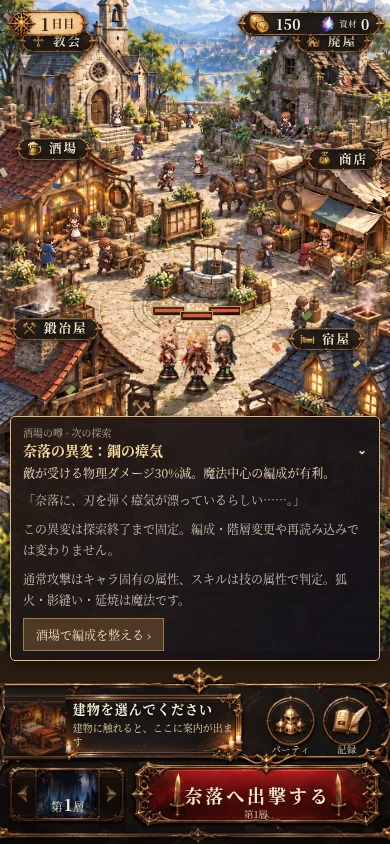
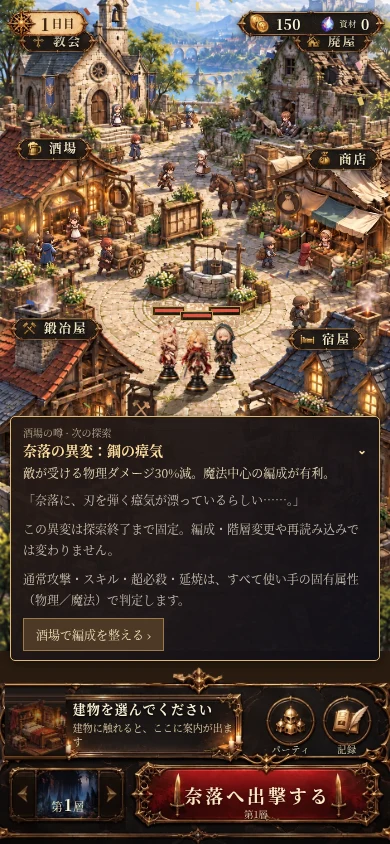
異変の物理魔法判定をキャラ属性へ統一

diff --git a/dev/naraku_src.html b/dev/naraku_src.html
@@ -2807,14 +2807,14 @@ const OMENS={
 };
 const omenKey=k=>Object.prototype.hasOwnProperty.call(OMENS,k)?k:'none';
 function rollOmen(seed,runs,previous){const keys=Object.keys(OMENS).filter(k=>k!==previous);return keys[hash32(seed^Math.imul(runs+1,0x9e3779b1)^0x4f4d454e)%keys.length]}
-const skillTag=c=>c.damageTag||(['fox_fire','fox_bind'].includes(c.id)?'mag':CHAR_TAG[c.owner]);
-function omenDamage(dmg,who,tag){
+function omenDamage(dmg,who){
+  const tag=CHAR_TAG[who];
   const key=B.anomaly;if((key==='steel'&&tag==='phys')||(key==='seal'&&tag==='mag'))dmg*=.7;
   if(key==='whispers'&&who){const a=B.allies.find(a=>a.d.id===who);if(a)dmg*=1+clamp(a.m.madness||0,0,99)*.005}
   return dmg;
 }
 function omenHTML(key,label='次の探索'){
-  const o=OMENS[omenKey(key)];return '<details class="omen-notice"><summary><small>酒場の噂 · '+label+'</small><b>奈落の異変：'+o.name+'</b><span>'+o.effect+'</span></summary><p>「'+o.rumor+'」</p><p>この異変は探索終了まで固定。編成・階層変更や再読み込みでは変わりません。</p><p>通常攻撃はキャラ固有の属性、スキルは技の属性で判定。狐火・影縫い・延焼は魔法です。</p><button data-go="party">酒場で編成を整える ›</button></details>';
+  const o=OMENS[omenKey(key)];return '<details class="omen-notice"><summary><small>酒場の噂 · '+label+'</small><b>奈落の異変：'+o.name+'</b><span>'+o.effect+'</span></summary><p>「'+o.rumor+'」</p><p>この異変は探索終了まで固定。編成・階層変更や再読み込みでは変わりません。</p><p>通常攻撃・スキル・超必殺・延焼は、すべて使い手の固有属性（物理／魔法）で判定します。</p><button data-go="party">酒場で編成を整える ›</button></details>';
 }
 const SAVE_KEY='naraku_save_v1';
 function newSave(){
@@ -3133,9 +3133,9 @@ function allyHit(a,tg,rep,singleOnly=false){
   }
 }
 // who=与えた味方のid / kind='atk'（通常攻撃・延焼）か 'skill'。集計は実際に削った体力ぶん（倒しすぎは数えない）
-function hurt(e,dmg,col,crit,quiet,who,kind,tag=CHAR_TAG[who]){
+function hurt(e,dmg,col,crit,quiet,who,kind){
   if(e.dead)return;
-  dmg=omenDamage(dmg,who,tag);
+  dmg=omenDamage(dmg,who);
   const real=Math.min(dmg,Math.max(0,e.hp));if(who&&B.stat[who])B.stat[who][kind]+=real;else B.statX+=real;
   e.hp-=dmg;e.flash=0.12;
   if(JC.on&&!quiet){e.kbT=0.13;if(crit){e.flash=0.18;jcStop(0.035)}}
@@ -3185,7 +3185,7 @@ function updEnemies(dt){
     if(e.knT>0)e.knT-=dt;
     if(e.burnT>0){ // 延焼：0.5秒ごとにまとめて焼く
       e.burnT-=dt;e.burnTick-=dt;
-      if(e.burnTick<=0){e.burnTick+=0.5;hurt(e,e.burnDps*0.5,'#ff8a3a',false,true,e.burnBy,'atk','mag');if(e.dead)continue}
+      if(e.burnTick<=0){e.burnTick+=0.5;hurt(e,e.burnDps*0.5,'#ff8a3a',false,true,e.burnBy,'atk');if(e.dead)continue}
       if(e.burnT<=0)e.burnDps=0;
     }
     if(e.frzT>0){e.frzT-=dt;continue}
@@ -3442,7 +3442,7 @@ function impact(c,x,y,k,shadow=false){
     if(c.slow)e.slowT=Math.max(e.slowT,c.slow);
     if(c.freeze)e.frzT=Math.max(e.frzT,c.freeze*(e.elite?0.5:1));
     if(c.knock)e.y-=c.knock*k*(e.elite?0.3:1);
-    hurt(e,dmg*((c.boss&&(e.elite||e.d.boss))?c.boss:1),c.pal[1],false,false,c.owner,'skill',skillTag(c));
+    hurt(e,dmg*((c.boss&&(e.elite||e.d.boss))?c.boss:1),c.pal[1],false,false,c.owner,'skill');
   }
   if(c.shape!=='full'&&c.fx!=='full'&&(c.dmg||0)>0)jcImpact(x,y,B.kills-k0);
   if(c.healFlat)for(const a of B.allies)if(a.alive){a.hp=Math.min(a.max,a.hp+c.healFlat*k);fxSpark(a.x,a.y-64,'#bff0c0',6)}
@@ -3466,7 +3466,7 @@ function castInstant(c,a){
     for(const e of B.enemies){
       if(e.dead||e.y<top)continue;
       e.y-=c.push*(e.d.boss?0.1:e.elite?0.3:1);e.knT=Math.max(e.knT,0.5);
-      hurt(e,dmg*((c.boss&&(e.elite||e.d.boss))?c.boss:1),c.pal[1],false,false,c.owner,'skill',skillTag(c));
+      hurt(e,dmg*((c.boss&&(e.elite||e.d.boss))?c.boss:1),c.pal[1],false,false,c.owner,'skill');
     }
     fxRow(B.lineY-c.band*0.5,c.band*0.5,c.pal);
     fxTex({n:'slash_a',col:c.pal[1],x:W/2,y:B.lineY-c.band*0.5,w:W*1.3,rot:1.0,sq:0.6,life:0.45,s0:0.85,s1:1.1,fi:0.05,fo:1.4});
@@ -3892,7 +3892,7 @@ function updZones(dt){
     const z=B.zones[i];z.t-=dt;z.tick-=dt;
     if(z.tick<=0){z.tick+=0.5;
       for(const e of B.enemies){if(e.dead||e.y>B.lineY+8||Math.abs(e.x-z.x)>z.hw+e.d.r*e.sc)continue;
-        e.slowT=Math.max(e.slowT,0.6);hurt(e,z.dps*0.5,z.c.pal[1],false,true,z.c.owner,'skill',skillTag(z.c))}
+        e.slowT=Math.max(e.slowT,0.6);hurt(e,z.dps*0.5,z.c.pal[1],false,true,z.c.owner,'skill')}
       if(z.c.id==='sw_rift'&&!z.c.ult&&!RIFT_VFX.enabled&&riftKOn()){const K=VFXK.sword;for(let k=0;k<3;k++)dustBurst('streak',z.x+(Math.random()-0.5)*z.hw*1.2,B.lineY*(0.1+Math.random()*0.85),1,{ang:-Math.PI/2,spread:0.5,v0:40,v1:110,l0:0.3,l1:0.4,p:{drag:1,w:1.2,len:6,c0:K.streak[0],c1:K.streak[1]}})}
       else if(!(z.c.ult==='sword'&&ultSeqOn('sword'))&&!(z.c.id==='sw_rift'&&!z.c.ult&&RIFT_VFX.enabled&&vtex('rift_floor')&&vtex('rift_air')))for(let k=0;k<6;k++)addPart({x:z.x+(Math.random()-0.5)*z.hw*1.4,y:Math.random()*B.lineY,vx:0,vy:-40-Math.random()*60,t:0,life:0.5+Math.random()*0.4,size:2+Math.random()*2,col:z.c.pal[1],drag:0.5,grav:0})}
     if(z.t<=0)B.zones.splice(i,1);
@@ -5947,7 +5947,7 @@ window.NARAKU={
   startRun(ids,seed,floor,anomaly='none'){SAVE_ON=false;S=newSave();S.omen=omenKey(anomaly);S.picks=ids.slice();if(floor){S.floorMax=Math.max(S.floorMax,floor);S.floor=floor}beginRun(seed)},
   // 街の操作と装備・セーブ
   town:{show:showTown,view:showView,pick:togglePick,hire:hireChar,equip:equipItem,unequip,enhance,breakItem,breakAll,inn:innStay,revive,buy:shopBuy,floor:setFloor,bank:bankLoot},
-  omens:{table:OMENS,roll:rollOmen,damage:omenDamage,hurt,skillTag,hitFrom,impact},
+  omens:{table:OMENS,roll:rollOmen,damage:omenDamage,hurt,hitFrom,impact},
   costume:{get:lanaOutfit,set:setLanaCostume,d:id=>charD(id),ultSeq:()=>ULT_SEQ.sword.n,col:()=>ULT_DEF.sword.col,holy:()=>lanaHolyOn},
   look:{set:setLook,get:id=>allyLook(id).key,frames:id=>allyLook(id).seq.length,list:id=>lookList(id).map(o=>o.key)},
   hub:{HUB,select:hubSelect,enter:hubEnter,tick:hubTick,get sel(){return HSEL},get on(){return!!HUBS}},

diff --git a/index.html b/index.html
@@ -2807,14 +2807,14 @@ const OMENS={
 };
 const omenKey=k=>Object.prototype.hasOwnProperty.call(OMENS,k)?k:'none';
 function rollOmen(seed,runs,previous){const keys=Object.keys(OMENS).filter(k=>k!==previous);return keys[hash32(seed^Math.imul(runs+1,0x9e3779b1)^0x4f4d454e)%keys.length]}
-const skillTag=c=>c.damageTag||(['fox_fire','fox_bind'].includes(c.id)?'mag':CHAR_TAG[c.owner]);
-function omenDamage(dmg,who,tag){
+function omenDamage(dmg,who){
+  const tag=CHAR_TAG[who];
   const key=B.anomaly;if((key==='steel'&&tag==='phys')||(key==='seal'&&tag==='mag'))dmg*=.7;
   if(key==='whispers'&&who){const a=B.allies.find(a=>a.d.id===who);if(a)dmg*=1+clamp(a.m.madness||0,0,99)*.005}
   return dmg;
 }
 function omenHTML(key,label='次の探索'){
-  const o=OMENS[omenKey(key)];return '<details class="omen-notice"><summary><small>酒場の噂 · '+label+'</small><b>奈落の異変：'+o.name+'</b><span>'+o.effect+'</span></summary><p>「'+o.rumor+'」</p><p>この異変は探索終了まで固定。編成・階層変更や再読み込みでは変わりません。</p><p>通常攻撃はキャラ固有の属性、スキルは技の属性で判定。狐火・影縫い・延焼は魔法です。</p><button data-go="party">酒場で編成を整える ›</button></details>';
+  const o=OMENS[omenKey(key)];return '<details class="omen-notice"><summary><small>酒場の噂 · '+label+'</small><b>奈落の異変：'+o.name+'</b><span>'+o.effect+'</span></summary><p>「'+o.rumor+'」</p><p>この異変は探索終了まで固定。編成・階層変更や再読み込みでは変わりません。</p><p>通常攻撃・スキル・超必殺・延焼は、すべて使い手の固有属性（物理／魔法）で判定します。</p><button data-go="party">酒場で編成を整える ›</button></details>';
 }
 const SAVE_KEY='naraku_save_v1';
 function newSave(){
@@ -3133,9 +3133,9 @@ function allyHit(a,tg,rep,singleOnly=false){
   }
 }
 // who=与えた味方のid / kind='atk'（通常攻撃・延焼）か 'skill'。集計は実際に削った体力ぶん（倒しすぎは数えない）
-function hurt(e,dmg,col,crit,quiet,who,kind,tag=CHAR_TAG[who]){
+function hurt(e,dmg,col,crit,quiet,who,kind){
   if(e.dead)return;
-  dmg=omenDamage(dmg,who,tag);
+  dmg=omenDamage(dmg,who);
   const real=Math.min(dmg,Math.max(0,e.hp));if(who&&B.stat[who])B.stat[who][kind]+=real;else B.statX+=real;
   e.hp-=dmg;e.flash=0.12;
   if(JC.on&&!quiet){e.kbT=0.13;if(crit){e.flash=0.18;jcStop(0.035)}}
@@ -3185,7 +3185,7 @@ function updEnemies(dt){
     if(e.knT>0)e.knT-=dt;
     if(e.burnT>0){ // 延焼：0.5秒ごとにまとめて焼く
       e.burnT-=dt;e.burnTick-=dt;
-      if(e.burnTick<=0){e.burnTick+=0.5;hurt(e,e.burnDps*0.5,'#ff8a3a',false,true,e.burnBy,'atk','mag');if(e.dead)continue}
+      if(e.burnTick<=0){e.burnTick+=0.5;hurt(e,e.burnDps*0.5,'#ff8a3a',false,true,e.burnBy,'atk');if(e.dead)continue}
       if(e.burnT<=0)e.burnDps=0;
     }
     if(e.frzT>0){e.frzT-=dt;continue}
@@ -3442,7 +3442,7 @@ function impact(c,x,y,k,shadow=false){
     if(c.slow)e.slowT=Math.max(e.slowT,c.slow);
     if(c.freeze)e.frzT=Math.max(e.frzT,c.freeze*(e.elite?0.5:1));
     if(c.knock)e.y-=c.knock*k*(e.elite?0.3:1);
-    hurt(e,dmg*((c.boss&&(e.elite||e.d.boss))?c.boss:1),c.pal[1],false,false,c.owner,'skill',skillTag(c));
+    hurt(e,dmg*((c.boss&&(e.elite||e.d.boss))?c.boss:1),c.pal[1],false,false,c.owner,'skill');
   }
   if(c.shape!=='full'&&c.fx!=='full'&&(c.dmg||0)>0)jcImpact(x,y,B.kills-k0);
   if(c.healFlat)for(const a of B.allies)if(a.alive){a.hp=Math.min(a.max,a.hp+c.healFlat*k);fxSpark(a.x,a.y-64,'#bff0c0',6)}
@@ -3466,7 +3466,7 @@ function castInstant(c,a){
     for(const e of B.enemies){
       if(e.dead||e.y<top)continue;
       e.y-=c.push*(e.d.boss?0.1:e.elite?0.3:1);e.knT=Math.max(e.knT,0.5);
-      hurt(e,dmg*((c.boss&&(e.elite||e.d.boss))?c.boss:1),c.pal[1],false,false,c.owner,'skill',skillTag(c));
+      hurt(e,dmg*((c.boss&&(e.elite||e.d.boss))?c.boss:1),c.pal[1],false,false,c.owner,'skill');
     }
     fxRow(B.lineY-c.band*0.5,c.band*0.5,c.pal);
     fxTex({n:'slash_a',col:c.pal[1],x:W/2,y:B.lineY-c.band*0.5,w:W*1.3,rot:1.0,sq:0.6,life:0.45,s0:0.85,s1:1.1,fi:0.05,fo:1.4});
@@ -3892,7 +3892,7 @@ function updZones(dt){
     const z=B.zones[i];z.t-=dt;z.tick-=dt;
     if(z.tick<=0){z.tick+=0.5;
       for(const e of B.enemies){if(e.dead||e.y>B.lineY+8||Math.abs(e.x-z.x)>z.hw+e.d.r*e.sc)continue;
-        e.slowT=Math.max(e.slowT,0.6);hurt(e,z.dps*0.5,z.c.pal[1],false,true,z.c.owner,'skill',skillTag(z.c))}
+        e.slowT=Math.max(e.slowT,0.6);hurt(e,z.dps*0.5,z.c.pal[1],false,true,z.c.owner,'skill')}
       if(z.c.id==='sw_rift'&&!z.c.ult&&!RIFT_VFX.enabled&&riftKOn()){const K=VFXK.sword;for(let k=0;k<3;k++)dustBurst('streak',z.x+(Math.random()-0.5)*z.hw*1.2,B.lineY*(0.1+Math.random()*0.85),1,{ang:-Math.PI/2,spread:0.5,v0:40,v1:110,l0:0.3,l1:0.4,p:{drag:1,w:1.2,len:6,c0:K.streak[0],c1:K.streak[1]}})}
       else if(!(z.c.ult==='sword'&&ultSeqOn('sword'))&&!(z.c.id==='sw_rift'&&!z.c.ult&&RIFT_VFX.enabled&&vtex('rift_floor')&&vtex('rift_air')))for(let k=0;k<6;k++)addPart({x:z.x+(Math.random()-0.5)*z.hw*1.4,y:Math.random()*B.lineY,vx:0,vy:-40-Math.random()*60,t:0,life:0.5+Math.random()*0.4,size:2+Math.random()*2,col:z.c.pal[1],drag:0.5,grav:0})}
     if(z.t<=0)B.zones.splice(i,1);
@@ -5947,7 +5947,7 @@ window.NARAKU={
   startRun(ids,seed,floor,anomaly='none'){SAVE_ON=false;S=newSave();S.omen=omenKey(anomaly);S.picks=ids.slice();if(floor){S.floorMax=Math.max(S.floorMax,floor);S.floor=floor}beginRun(seed)},
   // 街の操作と装備・セーブ
   town:{show:showTown,view:showView,pick:togglePick,hire:hireChar,equip:equipItem,unequip,enhance,breakItem,breakAll,inn:innStay,revive,buy:shopBuy,floor:setFloor,bank:bankLoot},
-  omens:{table:OMENS,roll:rollOmen,damage:omenDamage,hurt,skillTag,hitFrom,impact},
+  omens:{table:OMENS,roll:rollOmen,damage:omenDamage,hurt,hitFrom,impact},
   costume:{get:lanaOutfit,set:setLanaCostume,d:id=>charD(id),ultSeq:()=>ULT_SEQ.sword.n,col:()=>ULT_DEF.sword.col,holy:()=>lanaHolyOn},
   look:{set:setLook,get:id=>allyLook(id).key,frames:id=>allyLook(id).seq.length,list:id=>lookList(id).map(o=>o.key)},
   hub:{HUB,select:hubSelect,enter:hubEnter,tick:hubTick,get sel(){return HSEL},get on(){return!!HUBS}},

diff --git a/dev/tests/omens.py b/dev/tests/omens.py
@@ -31,12 +31,12 @@ with sync_playwright() as p:
       const skill=(a,id,ult=false)=>{const e=ready(a),c={...N.CARDS.find(c=>c.id===id)};delete c.zone;
         if(ult){c.ult=c.owner;c.dmg=140}const hp=e.hp;O.impact(c,e.x,e.y-16,1);return hp-e.hp};
       check('physical_skills_and_ult',Math.abs(skill('steel','sw_quake')/skill('none','sw_quake')-.7)<1e-8&&Math.abs(skill('steel','sw_rift',true)/skill('none','sw_rift',true)-.7)<1e-8);
-      check('magic_skills_and_fox_fire',Math.abs(skill('seal','mg_inferno')/skill('none','mg_inferno')-.7)<1e-8&&Math.abs(skill('seal','fox_fire')/skill('none','fox_fire')-.7)<1e-8&&skill('steel','fox_fire')===skill('none','fox_fire'));
+      check('skills_use_caster_attribute',Math.abs(skill('seal','mg_inferno')/skill('none','mg_inferno')-.7)<1e-8&&Math.abs(skill('steel','fox_fire')/skill('none','fox_fire')-.7)<1e-8&&skill('seal','fox_fire')===skill('none','fox_fire')&&Math.abs(skill('steel','fox_bind')/skill('none','fox_bind')-.7)<1e-8&&Math.abs(skill('steel','fox_fire',true)/skill('none','fox_fire',true)-.7)<1e-8);
       const ticks=(anomaly,zone)=>{const e=ready(anomaly);N.B.allies.forEach(a=>a.cdT=999);e.spd=0;
         if(zone)N.B.zones.push({x:e.x,hw:100,t:3,life:3,tick:.001,dps:40,c:N.CARDS.find(c=>c.id==='sw_rift')});
         else{e.burnT=3;e.burnTick=.001;e.burnDps=40;e.burnBy='sword'}
         const hp=e.hp;N.sim(1/60);return hp-e.hp};
-      check('burn_magic_once',Math.abs(ticks('seal',false)/ticks('none',false)-.7)<1e-8&&ticks('steel',false)===ticks('none',false));
+      check('burn_uses_caster_attribute_once',Math.abs(ticks('steel',false)/ticks('none',false)-.7)<1e-8&&ticks('seal',false)===ticks('none',false));
       check('zone_physical_once',Math.abs(ticks('steel',true)/ticks('none',true)-.7)<1e-8);
       let e=ready('whispers');N.B.allies[0].m.madness=80;const hp=e.hp;O.hurt(e,100,'#fff',false,true,'sword','atk');
       check('madness_bonus',Math.abs(hp-e.hp-140)<1e-8);
